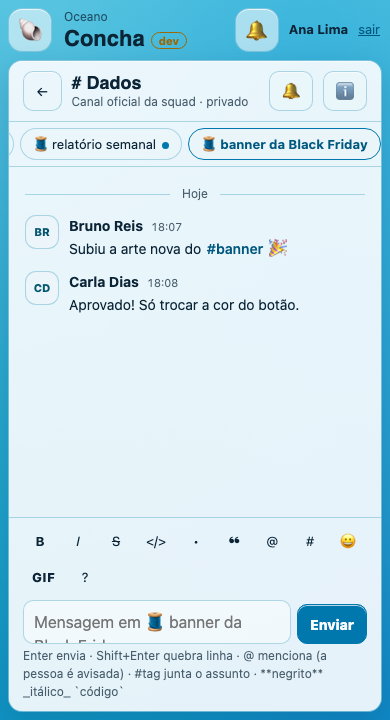
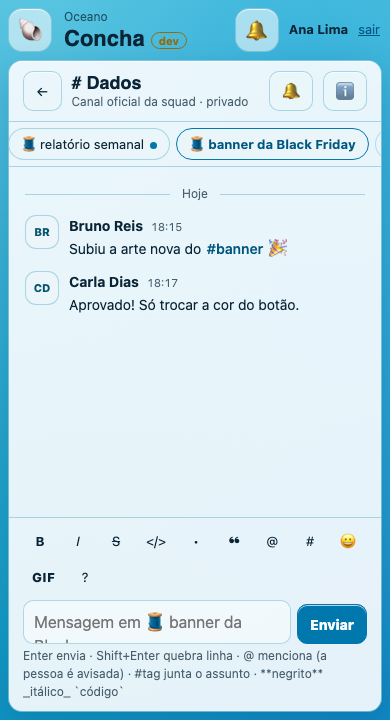
fix(concha): assuntos — o canal só acende por geral e assuntos já abertos (encerrado não), ✓ Marcar como lido, "Ver mais de geral", encerrar com hora do servidor, ?a= velho volta para geral
Achados do advisor antes do PR. 1ª abertura de um assunto grava o lido na hora; quem cria já entra lendo.
test_concha_assuntos.js (25).

Agent: claude

Changed region(s): [[0.0308, 0.1833, 0.9846, 0.2444], [0.4308, 0.3667, 0.4615, 0.3972], [0.4308, 0.3056, 0.4615, 0.3361]]

diff --git a/cardume-dev.html b/cardume-dev.html
@@ -462,7 +462,7 @@ let msgs = [];                 // mensagens do canal aberto (ordenadas por ts)
 let membrosAtual = {}, adminsAtual = {};
 let carregandoMsgs = false;
 // 🧵 Assuntos (docs/ideias/cardume-v0-banco.md › "Assuntos dentro do canal"): '' = geral
-let assuntoAtual = '', assuntos = {}, msgsCanal = [], msgsAss = [], verEncerrados = false, msgsCanalPronto = false;
+let assuntoAtual = '', assuntos = {}, msgsCanal = [], msgsAss = [], verEncerrados = false, msgsCanalPronto = false, janela = 100;
 const ultA = {}, AID_RE = /^a[a-z0-9]{1,20}$/;
 let lidasA = {};
 const JANELA = 100;   // janela do canal por ts (geral = as sem assunto dela; a ordem nunca confia na chave)
@@ -662,8 +662,10 @@ function iniciarOuvintes() {
 const lidoA = (id, k) => { const v = (lidasA[id] || {})[k]; return typeof v === 'number' ? v : k === '_geral' ? (lidas[id] || 0) : 0; };
 const vendoAgora = (id, k) => id === atual && (assuntoAtual || '_geral') === k && !vendoTag && !vendoMencoes && !vendoPessoa && conversaVisivel();
 const naoLidoA = (id, k) => { const u = (ultA[id] || {})[k]; return !!u && typeof u.ts === 'number' && u.uid !== user.uid && u.ts > lidoA(id, k) && !vendoAgora(id, k); };
+// O canal acende por geral e pelos assuntos que a pessoa já abriu (tem lidas_a); assunto nunca aberto ou encerrado só mostra o ponto na faixa.
+const acendeCanal = (id, k) => k === '_geral' || (AID_RE.test(k) && typeof (lidasA[id] || {})[k] === 'number' && !(id === atual && assuntoFechado(k)));
 const naoLido = id => {
-  if (ultA[id] && Object.keys(ultA[id]).some(k => (k === '_geral' || AID_RE.test(k)) && naoLidoA(id, k))) return true;
+  if (ultA[id] && Object.keys(ultA[id]).some(k => acendeCanal(id, k) && naoLidoA(id, k))) return true;
   // mensagem que só aparece no marcador antigo (quem ainda está com a página sem assuntos não grava ultima_a): conta como geral
   const u = ultimas[id]; if (!u || typeof u.ts !== 'number' || u.uid === user.uid) return false;
   if (Object.values(ultA[id] || {}).some(x => x && x.id === u.id)) return false;
@@ -729,11 +731,11 @@ function abrirCanal(id, foco, aid) {
   const membro = souMembro(id);
   if (membro || souAdm()) {
     carregandoMsgs = true; renderMsgs();
-    ouvir('msgs', query(ref(db, B + 'msgs/' + id), orderByChild('ts'), limitToLast(JANELA)), s => {
-      msgsCanal = listaMsgs(s.val()); msgsCanalPronto = true; if (!assuntoAtual) aplicarVista(id);
-    }, e => { carregandoMsgs = false; msgs = []; msgsCanal = []; renderMsgs(); if (negado(e)) toast('Sem acesso às mensagens de ' + nomeCanal(id) + '.'); });
+    janela = JANELA; ouvirJanela(id);
     ouvirAssunto(id);
-    ouvir('assuntos', ref(db, B + 'assuntos/' + id), s => { assuntos = s.val() || {}; renderBarraAssuntos(); renderCabecalho(); if (assuntoAtual) renderMsgs(); }, () => { assuntos = {}; renderBarraAssuntos(); });
+    ouvir('assuntos', ref(db, B + 'assuntos/' + id), s => { assuntos = s.val() || {};
+      if (assuntoAtual && !assuntos[assuntoAtual]) { toast('Esse assunto não existe mais. Voltando para geral.'); trocarAssunto(''); }
+      renderBarraAssuntos(); renderCabecalho(); if (assuntoAtual) renderMsgs(); }, () => { assuntos = {}; renderBarraAssuntos(); });
   } else { parar('assuntos'); parar('msgsA'); assuntos = {}; parar('msgs'); parar('rx'); pararCitacoes(); cancelarResposta(false); msgs = []; reacoes = {}; editando = ''; rascunhoEdicao = null; carregandoMsgs = false; renderMsgs(); }   // tirado do canal aberto: não segue escutando as mensagens
   if (membro || gestor(id)) {
     ouvir('membros', ref(db, B + 'membros/' + id), s => { membrosAtual = s.val() || {}; renderLado(); renderMsgs(); }, () => { membrosAtual = {}; renderLado(); });
@@ -749,6 +751,12 @@ function aplicarVista(id) {
   msgs = (assuntoAtual ? msgsAss : msgsCanal.filter(m => !m.a)).slice(-LIMITE);
   carregandoMsgs = false; ouvirReacoes(id); renderMsgs(); marcarLido(); irParaAlvo(id); renderBarraAssuntos();
 }
+function ouvirJanela(id) {   // janela do canal por ts (geral sai dela); "ver mais de geral" alarga
+  ouvir('msgs', query(ref(db, B + 'msgs/' + id), orderByChild('ts'), limitToLast(janela)), s => {
+    msgsCanal = listaMsgs(s.val()); msgsCanalPronto = true; if (!assuntoAtual) aplicarVista(id);
+  }, e => { carregandoMsgs = false; msgs = []; msgsCanal = []; renderMsgs(); if (negado(e)) toast('Sem acesso às mensagens de ' + nomeCanal(atual) + '.'); });
+}
+const geralEscondida = () => !assuntoAtual && msgsCanal.length >= janela && msgs.length < LIMITE && janela < 1000;   // a janela encheu com mensagens de assuntos
 function ouvirAssunto(id) {
   parar('msgsA'); msgsAss = [];
   if (!assuntoAtual) { if (msgsCanalPronto) aplicarVista(id); return; }   // geral: só com a janela do canal já lida (senão "ir até a mensagem" a perderia)
@@ -796,9 +804,17 @@ function renderBarraAssuntos() {
     f.onclick = () => { verEncerrados = !verEncerrados; renderBarraAssuntos(); }; bar.append(f);
     if (verEncerrados) fechados.forEach(k => bar.append(chip(k, '🔒 ' + assuntos[k].n, 'fechado')));
   }
+  if (Object.keys(ultA[id] || {}).some(k => (k === '_geral' || AID_RE.test(k)) && naoLidoA(id, k))) { const m = el('button', '', '✓ Marcar como lido'); m.type = 'button'; m.dataset.aid = '_lido'; m.title = 'Marcar geral e todos os assuntos deste canal como lidos'; m.onclick = () => marcarTudoLido(id); bar.append(m); }
   if (assuntoAtual && podeGerirAssunto(assuntoAtual)) { const g = el('button', '', '⋯'); g.type = 'button'; g.dataset.aid = '_ger'; g.setAttribute('aria-label', 'Renomear ou encerrar ' + nomeAssunto(assuntoAtual)); g.title = 'Renomear ou encerrar'; g.onclick = () => modalAssunto(assuntoAtual); bar.append(g); }
   if (foco) { const x = bar.querySelector('[data-aid="' + CSS.escape(foco) + '"]'); if (x) x.focus({ preventScroll: true }); }
-  const ativo = bar.querySelector('[aria-pressed="true"]'); if (ativo && ativo.scrollIntoView) ativo.scrollIntoView({ block: 'nearest', inline: 'nearest' });   // o assunto aberto sempre à vista na faixa
+  const ativo = bar.querySelector('[aria-pressed="true"]');   // o assunto aberto sempre à vista na faixa (rola só a faixa, nunca a página)
+  if (ativo) { const l = ativo.offsetLeft - bar.offsetLeft, r = l + ativo.offsetWidth; if (l < bar.scrollLeft) bar.scrollLeft = l - 12; else if (r > bar.scrollLeft + bar.clientWidth) bar.scrollLeft = r - bar.clientWidth + 12; }
+}
+function marcarTudoLido(id) {
+  const mapa = {};
+  Object.entries(ultA[id] || {}).forEach(([k, u]) => { if ((k === '_geral' || AID_RE.test(k)) && u && typeof u.ts === 'number' && u.ts > lidoA(id, k)) { mapa[B + 'lidas_a/' + user.uid + '/' + id + '/' + k] = u.ts; if (k === '_geral' && u.ts > (lidas[id] || 0)) mapa[B + 'lidas/' + user.uid + '/' + id] = u.ts; } });
+  if (!Object.keys(mapa).length) return;
+  update(ref(db), mapa).then(() => toast('✓ ' + nomeCanal(id) + ': tudo lido.')).catch(e => falhou('marcar como lido', e));
 }
 const podeGerirAssunto = aid => !!assuntos[aid] && !vencido(canais[atual]) && ((assuntos[aid].por === user.uid && souMembro(atual)) || gestor(atual));
 function modalAssunto(aid) {   // '' = novo; senão renomear / encerrar / reabrir
@@ -817,7 +833,7 @@ function modalAssunto(aid) {   // '' = novo; senão renomear / encerrar / reabri
     const enc = el('button', fechado ? '' : 'perigo', fechado ? '🔓 Reabrir' : '🔒 Encerrar'); enc.type = 'button';
     enc.onclick = async () => {
       if (!fechado && !confirm('Encerrar "' + x.n + '"? Vira só leitura: ninguém escreve, edita nem reage mais nele.')) return;
-      try { await set(ref(db, base + '/fim'), fechado ? null : Date.now() - 1000); fecharModal(); toast(fechado ? '🔓 Assunto reaberto.' : '🔒 Assunto encerrado.'); } catch (e) { erroModal(err, negado(e) ? 'Sem permissão.' : 'Não deu agora. Tente de novo.'); }
+      try { await set(ref(db, base + '/fim'), fechado ? null : serverTimestamp()); fecharModal(); toast(fechado ? '🔓 Assunto reaberto.' : '🔒 Assunto encerrado.'); } catch (e) { erroModal(err, negado(e) ? 'Sem permissão.' : 'Não deu agora. Tente de novo.'); }
     };
     l.append(enc);
   }
@@ -831,7 +847,7 @@ function modalAssunto(aid) {   // '' = novo; senão renomear / encerrar / reabri
       if (x) { await set(ref(db, base + '/n'), n); fecharModal(); toast('🧵 Assunto renomeado.'); }
       else {
         const novo = 'a' + Date.now().toString(36) + Math.random().toString(36).slice(2, 6).replace(/[^a-z0-9]/g, 'x');
-        await set(ref(db, B + 'assuntos/' + atual + '/' + novo), { n, por: user.uid, criado: serverTimestamp() });
+        await update(ref(db), { [B + 'assuntos/' + atual + '/' + novo]: { n, por: user.uid, criado: serverTimestamp() }, [B + 'lidas_a/' + user.uid + '/' + atual + '/' + novo]: serverTimestamp() });   // quem cria já acompanha o assunto
         fecharModal(); assuntos[novo] = { n, por: user.uid, criado: Date.now() }; trocarAssunto(novo); entrada.focus(); toast('🧵 Assunto criado. Escreva a primeira mensagem.');
       }
     } catch (er) { ok.disabled = false; erroModal(err, negado(er) ? 'Sem permissão.' : 'Não deu agora. Tente de novo.'); }
@@ -879,6 +895,11 @@ function renderMsgs() {
   if (carregandoMsgs) { log.append(vazio('', 'Carregando mensagens…')); return; }
   if (assuntoFechado(assuntoAtual)) log.append(el('p', 'aviso-encerrado', '🔒 Assunto encerrado — só leitura.' + (podeGerirAssunto(assuntoAtual) ? ' Para voltar a escrever, ⋯ › Reabrir.' : '')));
   if (assuntoAtual && !msgs.length) { log.append(vazio('🧵', 'Nenhuma mensagem em "' + nomeAssunto(assuntoAtual) + '" ainda.')); return; }
+  if (geralEscondida()) {   // a janela do canal encheu de mensagens de assuntos: geral pode ter mais (nunca dizer que está vazia)
+    const v = el('div', 'aviso-encerrado'); v.append(document.createTextNode(msgs.length ? 'As mensagens mais recentes do canal estão nos assuntos. ' : 'As mensagens mais recentes do canal estão nos assuntos; as de geral são mais antigas. '));
+    const b = el('button', 'lnk', 'Ver mais de geral'); b.type = 'button'; b.onclick = () => { janela = Math.min(1000, janela + 200); carregandoMsgs = true; renderMsgs(); ouvirJanela(atual); }; v.append(b); log.append(v);
+    if (!msgs.length) return;
+  }
   if (!msgs.length) { log.append(vazio('💬', vencido(c) ? 'Canal arquivado, sem mensagens.' : 'Nenhuma mensagem ainda. Diga oi! 👋')); return; }
   if (msgs.length >= LIMITE) log.append(el('p', 'subtitulo', 'Mostrando as últimas ' + LIMITE + ' mensagens.'));
   let dia = '', ult = null, grupo = null;
@@ -1611,12 +1632,13 @@ function marcarLido() {   // por assunto (lidas_a); a vista de geral também ava
   const ts = msgs[msgs.length - 1].ts, k = assuntoAtual || '_geral';
   if (ts <= lidoA(id, k)) return;
   clearTimeout(marcarLido._t);
+  const primeira = k !== '_geral' && typeof (lidasA[id] || {})[k] !== 'number';   // 1ª vez no assunto: grava já (é o que faz ele acender o canal depois)
   marcarLido._t = setTimeout(() => {
     if (atual !== id || (assuntoAtual || '_geral') !== k || ts <= lidoA(id, k)) return;
     const mapa = { [B + 'lidas_a/' + user.uid + '/' + id + '/' + k]: ts };
     if (k === '_geral' && ts > (lidas[id] || 0)) mapa[B + 'lidas/' + user.uid + '/' + id] = ts;
     update(ref(db), mapa).catch(() => {});
-  }, 800);
+  }, primeira ? 0 : 800);
 }
 
 document.addEventListener('visibilitychange', marcarLido);

diff --git a/docs/arezzo/testes/test_concha_assuntos.js b/docs/arezzo/testes/test_concha_assuntos.js
@@ -11,13 +11,14 @@ const base = process.env.BASE_URL || 'http://127.0.0.1:8941';
 const ANA = { uid: 'ana', email: 'ana@ciahering.com.br', displayName: 'Ana Lima', photoURL: '', providerData: [{ providerId: 'google.com' }] };
 const agora = Date.now();
 const forjadas = {}; for (let i = 0; i < 55; i++) forjadas['z' + String(i).padStart(3, '0')] = { uid: 'bru', ts: agora - 864e5 - i * 1000, texto: 'velha ' + i, a: 'aold' };
+const ocupado = {}; for (let i = 0; i < 100; i++) ocupado['-Nb' + String(i).padStart(3, '0')] = { uid: 'bru', ts: agora - 3e5 + i * 1000, texto: 'assunto ' + i, a: 'abusy' };
 const seed = () => ({ kanban: {
   usuarios: { ana: { role: 'membro', squads: { dados: true } } },
   usuarios_publicos: { ana: { nome: 'Ana Lima', email: 'ana@ciahering.com.br' }, bru: { nome: 'Bruno Reis', email: 'bru@ciahering.com.br' } },
   cardume: {
-    canais: { dados: { nome: 'Dados' }, prf: { nome: 'Performance' } }, membros: { dados: { ana: true, bru: true }, prf: { ana: true, bru: true } }, meus: { ana: { dados: true, prf: true } },
-    assuntos: { dados: { aold: { n: 'campanha antiga', por: 'bru', criado: agora - 2 * 864e5 } } },
-    msgs: { dados: Object.assign({ '-Ng1': { uid: 'bru', ts: agora - 9e5, texto: 'bom dia, geral' }, '-Nnew': { uid: 'bru', ts: agora - 6e4, texto: 'a NOVA do assunto', a: 'aold' } }, forjadas), prf: {} },
+    canais: { dados: { nome: 'Dados' }, prf: { nome: 'Performance' }, mid: { nome: 'Mídia' } }, membros: { dados: { ana: true, bru: true }, prf: { ana: true, bru: true }, mid: { ana: true, bru: true } }, meus: { ana: { dados: true, prf: true, mid: true } },
+    assuntos: { dados: { aold: { n: 'campanha antiga', por: 'bru', criado: agora - 2 * 864e5 } }, mid: { abusy: { n: 'lançamento', por: 'bru', criado: agora - 864e5 } } },
+    msgs: { mid: Object.assign({ '-Mg1': { uid: 'bru', ts: agora - 9e6, texto: 'geral antiga 1' }, '-Mg2': { uid: 'bru', ts: agora - 8e6, texto: 'geral antiga 2' }, '-Mg3': { uid: 'bru', ts: agora - 7e6, texto: 'geral antiga 3' } }, ocupado), dados: Object.assign({ '-Ng1': { uid: 'bru', ts: agora - 9e5, texto: 'bom dia, geral' }, '-Nnew': { uid: 'bru', ts: agora - 6e4, texto: 'a NOVA do assunto', a: 'aold' } }, forjadas), prf: {} },
     ultima_a: { dados: { _geral: { ts: agora - 9e5, uid: 'bru', id: '-Ng1' }, aold: { ts: agora - 6e4, uid: 'bru', id: '-Nnew' } } },
     lidas_a: { ana: { dados: { _geral: agora } } },
     mencoes: { ana: { r1: { c: 'dados', m: '-Nnew', de: 'bru', ts: agora - 6e4, n: 'n1' } } },
@@ -43,9 +44,11 @@ const authDe = u => ({ uid: u.uid, token: { email: u.email, firebase: { sign_in_
   const externo = mapa => p.evaluate(m => { window.__onDisc = m; window.__simDisconnect(); }, mapa);
 
   let c = await chips();
-  t('faixa: 💬 geral (aberto), ＋ Assunto, 🧵 campanha antiga com ponto de nova', JSON.stringify(c) === JSON.stringify(['💬 geral*', '＋ Assunto', '🧵 campanha antiga•']), c);
+  t('faixa: 💬 geral (aberto), ＋ Assunto, 🧵 campanha antiga com ponto de nova, ✓ Marcar como lido', JSON.stringify(c) === JSON.stringify(['💬 geral*', '＋ Assunto', '🧵 campanha antiga•', '✓ Marcar como lido']), c);
   t('geral mostra só a mensagem sem assunto', JSON.stringify(await textos()) === JSON.stringify(['bom dia, geral']), await textos());
-  t('o canal acende na lista (assunto com nova)', await p.evaluate(() => document.querySelector('[data-canal="dados"]').classList.contains('nao-lido')), 0);
+  await p.click('[data-canal="prf"]'); await p.waitForTimeout(300);
+  t('assunto que eu nunca abri NÃO acende o canal (só o ponto na faixa)', await p.evaluate(() => !document.querySelector('[data-canal="dados"]').classList.contains('nao-lido')), 0);
+  await p.click('[data-canal="dados"]'); await p.waitForTimeout(500);
 
   await p.click('#assuntos-barra [data-aid="aold"]'); await p.waitForTimeout(1300);
   let tx = await textos();
@@ -71,6 +74,9 @@ const authDe = u => ({ uid: u.uid, token: { email: u.email, firebase: { sign_in_
   const tn = Date.now();
   await externo({ ['kanban/cardume/msgs/dados/-Nb2']: ['set', { uid: 'bru', ts: tn, texto: 'aprovado', a: aid }], ['kanban/cardume/ultima_a/dados/' + aid]: ['set', { ts: tn, uid: 'bru', id: '-Nb2' }] }); await p.waitForTimeout(400);
   t('mensagem nova no assunto, vendo geral: ponto no 🧵 banner BF', (await chips()).some(x => x.startsWith('🧵 banner BF') && x.endsWith('•')), await chips());
+  t('...e o canal acende (é um assunto que eu já abri)', await p.evaluate(() => document.querySelector('[data-canal="dados"]').classList.contains('nao-lido')), 0);
+  await p.click('#assuntos-barra [data-aid="_lido"]'); await p.waitForTimeout(400);
+  t('✓ Marcar como lido apaga todos os pontos (faixa e canal)', !(await chips()).some(x => x.includes('•')) && await p.evaluate(() => !document.querySelector('[data-canal="dados"]').classList.contains('nao-lido')), await chips());
 
   // encerrar e reabrir (quem criou)
   await p.click('#assuntos-barra [data-aid="' + aid + '"]'); await p.waitForTimeout(300);
@@ -80,6 +86,14 @@ const authDe = u => ({ uid: u.uid, token: { email: u.email, firebase: { sign_in_
   await p.click('#assuntos-barra [data-aid="_ger"]'); await p.click('.md button:has-text("Reabrir")'); await p.waitForTimeout(400);
   t('🔓 Reabrir volta o campo', !(await S()).assuntos.dados[aid].fim && await p.evaluate(() => !document.getElementById('rodape').hidden), 0);
 
+  // encerrado com mensagem nova de outra pessoa: não acende o canal
+  await p.click('#assuntos-barra [data-aid="_ger"]'); p.once('dialog', d => d.accept()); await p.click('.md button.perigo'); await p.waitForTimeout(300);
+  await p.click('#assuntos-barra [data-aid="_geral"]'); await p.waitForTimeout(300);
+  const te = Date.now();
+  await externo({ ['kanban/cardume/msgs/dados/-Nb3']: ['set', { uid: 'bru', ts: te, texto: 'depois de encerrar?', a: aid }], ['kanban/cardume/ultima_a/dados/' + aid]: ['set', { ts: te, uid: 'bru', id: '-Nb3' }] }); await p.waitForTimeout(400);
+  t('assunto encerrado não acende o canal', await p.evaluate(() => !document.querySelector('[data-canal="dados"]').classList.contains('nao-lido')), 0);
+  await p.click('#assuntos-barra button:has-text("Encerrados")'); await p.click('#assuntos-barra [data-aid="' + aid + '"]'); await p.waitForTimeout(300);
+  await p.click('#assuntos-barra [data-aid="_ger"]'); await p.click('.md button:has-text("Reabrir")'); await p.waitForTimeout(300);
   // apagar guarda o a
   await p.hover('#log .msg'); await p.click('#log .msg [aria-label="Apagar"]'); await p.waitForTimeout(5600);
   c = await S(); const ap = c.msgs.dados[minha[0]];
@@ -89,6 +103,11 @@ const authDe = u => ({ uid: u.uid, token: { email: u.email, firebase: { sign_in_
   await p.click('#b-mencoes'); await p.waitForTimeout(300); await p.click('#log .mencao-item'); await p.waitForTimeout(800);
   t('abrir a menção leva ao assunto da mensagem e a destaca', await p.evaluate(() => new URL(location.href).searchParams.get('a') === 'aold' && !!document.querySelector('[data-msg="-Nnew"].destaque')), await chips());
 
+  // geral com a janela cheia de assuntos: nunca "vazio"
+  await p.click('[data-canal="mid"]'); await p.waitForTimeout(600);
+  t('geral com a janela cheia de mensagens de assunto: avisa e não diz que está vazio', await p.evaluate(() => /estão nos assuntos/.test(document.getElementById('log').textContent) && !/Diga oi/.test(document.getElementById('log').textContent)), await textos());
+  await p.click('#log button:has-text("Ver mais de geral")'); await p.waitForTimeout(600);
+  t('"Ver mais de geral" traz as 3 antigas', JSON.stringify(await textos()) === JSON.stringify(['geral antiga 1', 'geral antiga 2', 'geral antiga 3']), await textos());
   // página antiga (só ultima, sem ultima_a): o canal acende
   await p.click('[data-canal="prf"]'); await p.waitForTimeout(300);
   const to = Date.now();
@@ -100,6 +119,10 @@ const authDe = u => ({ uid: u.uid, token: { email: u.email, firebase: { sign_in_
   for (const e of esc) { const mapa = e.tipo === 'set' ? { [e.p]: e.v } : Object.fromEntries(Object.entries(e.v).map(([k, v]) => [(e.p ? e.p + '/' : '') + k, v])); Date.now = () => e.t; let r; try { r = regras(RULES, e.antes, authDe(ANA), mapa); } finally { Date.now = real; } if (!r) ruins.push({ tipo: e.tipo, caminhos: Object.keys(mapa) }); }
   t('CADA escrita da página passa nas regras reais', esc.length > 0 && !ruins.length, { n: esc.length, ruins });
   t('sem erro de JS', !errs.length, errs);
+  // link para assunto que não existe mais (?a= velho): volta para geral, com aviso, e o campo segue escrevendo em geral
+  await p.goto(base + '/cardume-dev.html?c=prf&a=asumiu'); await p.waitForFunction(() => !!window.__authCb);
+  await p.evaluate(x => window.__authCb(x), ANA); await p.waitForTimeout(1000);
+  t('link para assunto apagado volta para geral (sem ?a=, campo de geral)', await p.evaluate(() => !new URL(location.href).searchParams.get('a') && document.getElementById('entrada').placeholder === 'Escreva uma mensagem…' && /não existe mais/.test(document.getElementById('toast').textContent)), await p.evaluate(() => [location.search, document.getElementById('entrada').placeholder, document.getElementById('toast').textContent]));
   await b.close();
   console.log(`\n${ok ? '✅' : '❌'} ${total} verificações`); process.exit(ok ? 0 : 1);
 })().catch(e => { console.error(e); process.exit(1); });

diff --git a/CHANGELOG.md b/CHANGELOG.md
@@ -26,7 +26,7 @@ completo, incluindo commits antigos sem PR/descrição detalhada).
 
 ### 🐚 Concha: 🧵 assuntos dentro do canal, com não lidas por assunto e encerrar (SÓ DEV, cardume v0.27, regras assuntos) — 2026-11-25
 
-Pedido do Caio: assuntos separados dentro do canal (como os tópicos do Zulip). Faixa no topo da conversa: 💬 geral (a conversa normal e todas as mensagens antigas) + ＋ Assunto + os assuntos do canal, do mais movimentado, cada um com o ponto de mensagens novas; os encerrados ficam em "Encerrados (N)". Trocar de assunto troca a conversa, o rascunho e o lugar onde a mensagem vai (o campo diz "Mensagem em 🧵 …"). Qualquer membro cria; quem criou e quem administra o canal renomeiam, encerram (só leitura: sem mensagem nova, edição nem reação) e reabrem. Não lidas por assunto (o canal acende se qualquer assunto tem nova); menção, #tag e push levam ao assunto da mensagem; apagar mantém a mensagem no assunto. Banco: kanban/cardume/assuntos/{canal}/{aid}, campo a na mensagem (só na criação, imutável), ultima_a e lidas_a; a ordem e o limite da conversa nunca confiam na chave (mensagens com chave forjada não escondem as novas). Próximo PR: 🔕/🔔 seguir por assunto e o nome do assunto no push. Testes: cardumeRules (+4, sabotagens), test_concha_assuntos.js (19). Deploy: firebase deploy --only database antes do merge.
+Pedido do Caio: assuntos separados dentro do canal (como os tópicos do Zulip). Faixa no topo da conversa: 💬 geral (a conversa normal e todas as mensagens antigas) + ＋ Assunto + os assuntos do canal, do mais movimentado, cada um com o ponto de mensagens novas; os encerrados ficam em "Encerrados (N)". Trocar de assunto troca a conversa, o rascunho e o lugar onde a mensagem vai (o campo diz "Mensagem em 🧵 …"). Qualquer membro cria; quem criou e quem administra o canal renomeiam, encerram (só leitura: sem mensagem nova, edição nem reação) e reabrem. Não lidas por assunto: o canal acende por geral e pelos assuntos que você já abriu (assunto nunca aberto ou encerrado só mostra o ponto na faixa) e ✓ Marcar como lido zera o canal; geral com a janela cheia de assuntos oferece "Ver mais de geral" em vez de dizer que está vazio; menção, #tag e push levam ao assunto da mensagem; apagar mantém a mensagem no assunto. Banco: kanban/cardume/assuntos/{canal}/{aid}, campo a na mensagem (só na criação, imutável), ultima_a e lidas_a; a ordem e o limite da conversa nunca confiam na chave (mensagens com chave forjada não escondem as novas). Próximo PR: 🔕/🔔 seguir por assunto e o nome do assunto no push. Testes: cardumeRules (+4, sabotagens), test_concha_assuntos.js (19). Deploy: firebase deploy --only database antes do merge.
 
 ### 🐚 Concha: foto no @, barra de formatação com explicação e #, quem reagiu à vista (SÓ DEV, cardume v0.26) — 2026-11-25
 

diff --git a/docs/ideias/cardume-v0-banco.md b/docs/ideias/cardume-v0-banco.md
@@ -422,6 +422,9 @@ Pedido do Caio (25/11): "assuntos separados", como os tópicos do Zulip/Discord.
 - **Apagar guarda o `a`** (`{uid, ts, apagada, a}`): a mensagem apagada não cai em geral. Editar não muda nem tira o `a`.
 - **Encerrado = só leitura de verdade:** a regra barra mensagem nova, edição e reação (tirar a própria reação e apagar continuam). Quem pode encerrar também reabre (tira o `fim`). Quem criou e saiu do canal perde o direito.
 - `ultima/{canal}` e `lidas/{uid}/{canal}` continuam. Não lida por assunto = `ultima_a` × `lidas_a`; **"_geral" herda o lido antigo do canal** e os assuntos começam do zero. A vista de geral também avança o `lidas` antigo; a de assunto não. Mensagem que só aparece no `ultima` (de quem ainda está com a página antiga) conta como geral. O assunto mostra um ponto (não um número).
+- **O canal acende** por geral e pelos assuntos que a pessoa **já abriu** (tem `lidas_a`; a 1ª abertura grava na hora e quem cria já entra lendo); assunto nunca aberto ou **encerrado** só mostra o ponto na faixa — senão um assunto que ninguém abre deixaria o canal aceso para sempre. **✓ Marcar como lido** na faixa zera geral e todos os assuntos do canal.
+- **Geral com a janela cheia de assuntos** (100 mensagens por `ts`): nunca diz "vazio"; avisa que as recentes estão nos assuntos e oferece **Ver mais de geral** (janela +200, até 1000).
+- Encerrar grava `fim` com `serverTimestamp`. Link `?a=` de assunto que não existe mais volta para geral, com aviso.
 - **PR A (este):** os assuntos, não lidas e encerrar. **PR B (depois):** 🔕/🔔 seguir por assunto (`avisos_a` + `conchaAvisoMsg`) e o nome do assunto no push; até lá, mensagem de assunto avisa pela regra do canal.
 
 ### Avisos (`conchaAvisoMsg` + `avisos_a`)
